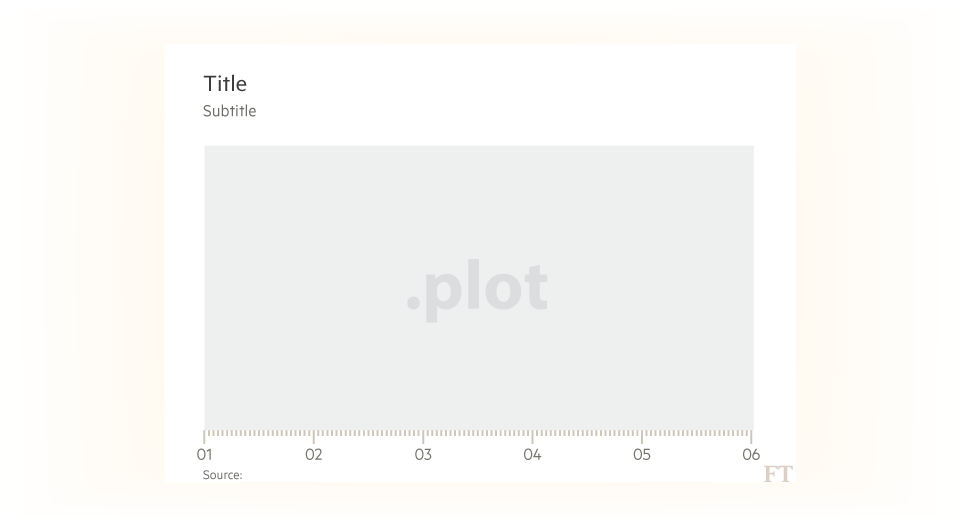
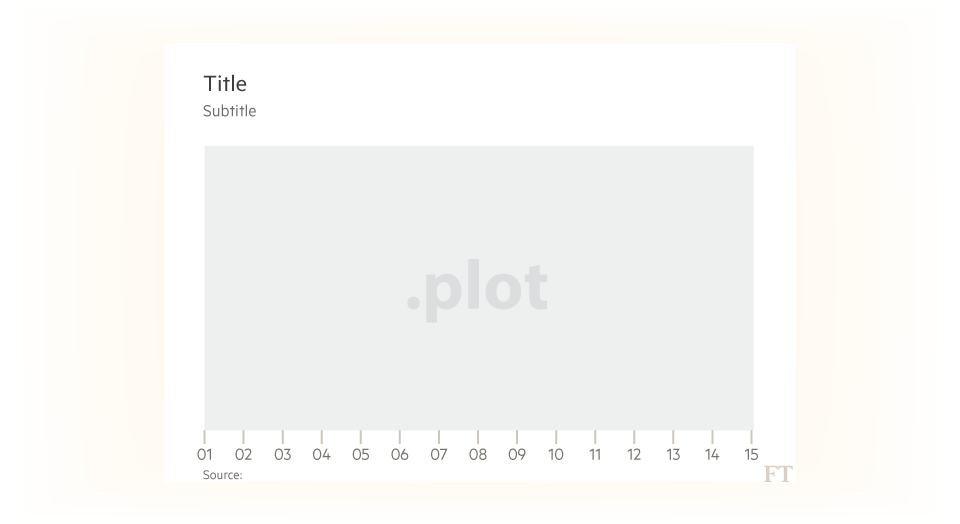
Update README.md and image

Changed region(s): [[0.2188, 0.8244, 0.8125, 0.8855]]

diff --git a/README.md b/README.md
@@ -88,7 +88,7 @@ myXAxis
 
 ## Examples
 
-### Every year
+### Yearly
 
 From Jan 1 2005 to June 1 2017, with each year labeled and no minot axis
 
@@ -137,6 +137,8 @@ currentFrame.plot()
 
 ![alt tag](https://github.com/ft-interactive/g-xaxisDate/blob/master/images/example02.png)
 
+### Monthly
+
 From Jan 1 2017 to June 16 2017, with every month labeled and a minot axis
 
 ```
@@ -160,21 +162,25 @@ currentFrame.plot()
 
 ![alt tag](https://github.com/ft-interactive/g-xaxisDate/blob/master/images/example03.png)
 
-From Jun 1 2017 to June 6 2017, with every day labeled and a minot axis
+### Daily
+
+From Jun 1 2017 to June 6 2017, with no minot axis
+
+<b>Note</b> This axis is only suitable for single daily values and not hourly values such as a share price. This will result is 'dead-space'. Use to come
 
 ```
 const myXAxis = xaxisDate();//sets up yAxis
 const currentFrame = frame[frameName];
 
 let mindate = new Date(2017,6,1);
-let maxdate = new Date(2017,6,6);
+let maxdate = new Date(2017,6,15);
 
 myXAxis
 	.height(currentFrame.dimension().height)
 	.domain([mindate,maxdate])
 	.range([0,currentFrame.dimension().width])
 	.interval("days")
-	.minorAxis(true)
+	.minorAxis(false)
 	.rem(currentFrame.rem())
 
 currentFrame.plot()
